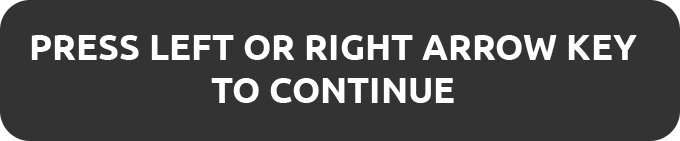
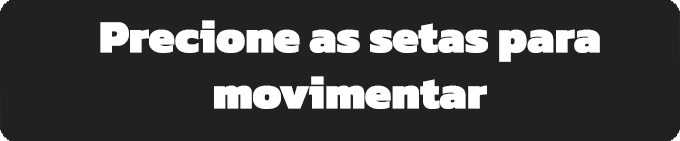
Adicionei os assets da moto,tutorial para android; Traduzi o jogo; Reduzi a quantidade de assets do carro de 7 para 2; Ajustei a velocidade com o decorrer do jogo; Adicionei pontuação ao pegar moedas

diff --git a/js/game.js b/js/game.js
@@ -40,15 +40,15 @@ gameState.prototype = {
   addHud:function()
   {
     var hudbar = this.add.sprite(0,0,"hudbar");
-    hudbar.alpha = 0.65;
+    hudbar.alpha = 0.30;
 
     var style = {font: "50px Arial Black", fill: "#fff",align: "left"};
 
-    var scoreLabel = this.add.text(20, 20,"SCORE:",style);
-    this.scoreField = this.add.text(scoreLabel.x+220, 20,this.score.toString(),style);
+    var scoreLabel = this.add.text(5, 20,"PONTOS:",style);
+    this.scoreField = this.add.text(scoreLabel.x+270, 20,this.score.toString(),style);
 
-    var lifeLabel = this.add.text(880, 20,"LIFE:",style);
-    this.lifeField = this.add.text(lifeLabel.x+150, 20,this.playerLife.toString(),style);
+    var lifeLabel = this.add.text(830, 20,"VIDA:",style);
+    this.lifeField = this.add.text(lifeLabel.x+170, 20,this.playerLife.toString(),style);
 
     var str;
 
@@ -125,7 +125,7 @@ gameState.prototype = {
 
     if(Global.vehiclesArr.length === 0)
     {
-      Global.vehiclesArr = ["car1","car2","car3","car4","car5","car6","car7","car8","car9"];
+      Global.vehiclesArr = ["car1","car2","moto"];
       var index = Global.vehiclesArr.indexOf(Global.playerCarType);
       Global.vehiclesArr.splice(index,1);
 
@@ -385,8 +385,8 @@ gameState.prototype = {
    coinHit:function(player,coin)
    {
      coin.destroy();
-     this.setScore(10);
-
+     this.setScore(100);
+    
      if(coin.type === "heart")
      {
        if(this.playerLife < 5){

diff --git a/js/result.js b/js/result.js
@@ -39,10 +39,10 @@ resultState.prototype = {
       strokeThickness:18
     };
 
-    var scoreField = this.add.text(this.centerX,650,"Score\n"+Global.score.toString(),text_style);
+    var scoreField = this.add.text(this.centerX,650,"Pontos\n"+Global.score.toString(),text_style);
     scoreField.anchor.set(0.5);
 
-    var highScoreField = this.add.text(this.centerX,950,"High Score\n" + Global.highScore.toString(),text_style);
+    var highScoreField = this.add.text(this.centerX,950,"Pontuação Mais Alta\n" + Global.highScore.toString(),text_style);
     highScoreField.anchor.set(0.5);
 
     this.retryButton = this.addButton(this.centerX,1500,"retry_button");
@@ -57,7 +57,7 @@ resultState.prototype = {
   onRetryUp:function()
   {
     this.onUp(this.retryButton);
-    this.state.start('title');
+    this.state.start('game');
   },
 
   addButton:function(x,y,str)

diff --git a/js/preload.js b/js/preload.js
@@ -56,14 +56,7 @@ preloadState.prototype = {
 
      this.load.image('car1','cars/car1.png?v='+t);
      this.load.image('car2','cars/car2.png?v='+t);
-     this.load.image('car3','cars/car3.png?v='+t);
-     this.load.image('car4','cars/car4.png?v='+t);
-     this.load.image('car5','cars/car5.png?v='+t);
-     this.load.image('car6','cars/car6.png?v='+t);
-     this.load.image('car7','cars/car7.png?v='+t);
-     this.load.image('car8','cars/car8.png?v='+t);
-     this.load.image('car9','cars/car9.png?v='+t);
-
+     this.load.image('moto','cars/moto.png?v='+t);
      this.load.image('car_shadow','cars/car_shadow.png?v='+t);
 
      this.load.spritesheet('selectCars', 'spriteSheets/selectCars.png',106,175,9);

diff --git a/js/global.js b/js/global.js
@@ -4,5 +4,5 @@ var Global = {};
 
 Global.score = 0;
 Global.highScore = 0;
-Global.vehiclesArr = ["car1","car2","car3","car4","car5","car6","car7","car8","car9"];
-Global.playerCarType = "car1";
+Global.vehiclesArr = ["car1","car2"];
+Global.playerCarType = "moto";

diff --git a/js/title.js b/js/title.js
@@ -31,7 +31,7 @@ titleState.prototype = {
   onPlayButtonUp:function()
   {
     this.onUp(this.playButton);
-    this.state.start('select');
+    this.state.start('game');
   },
   addButton:function(x,y,str)
   {
